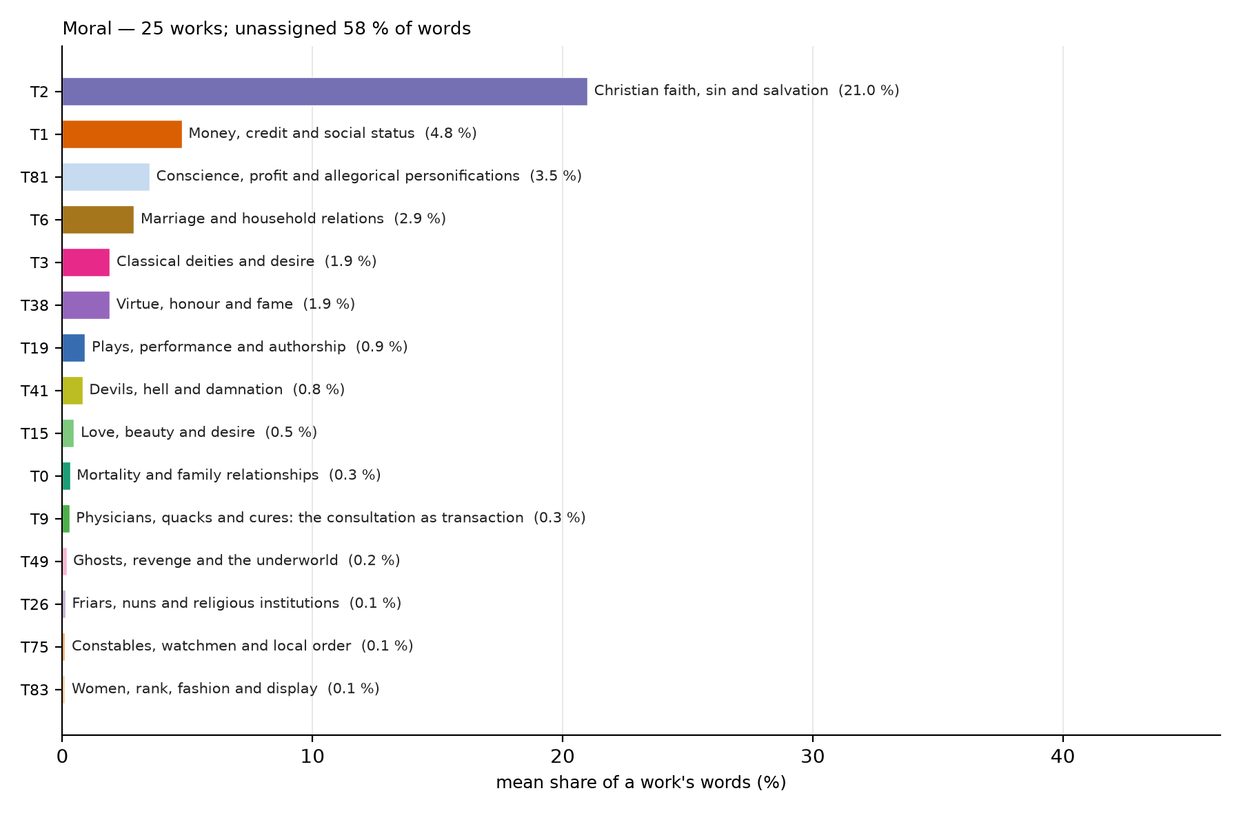
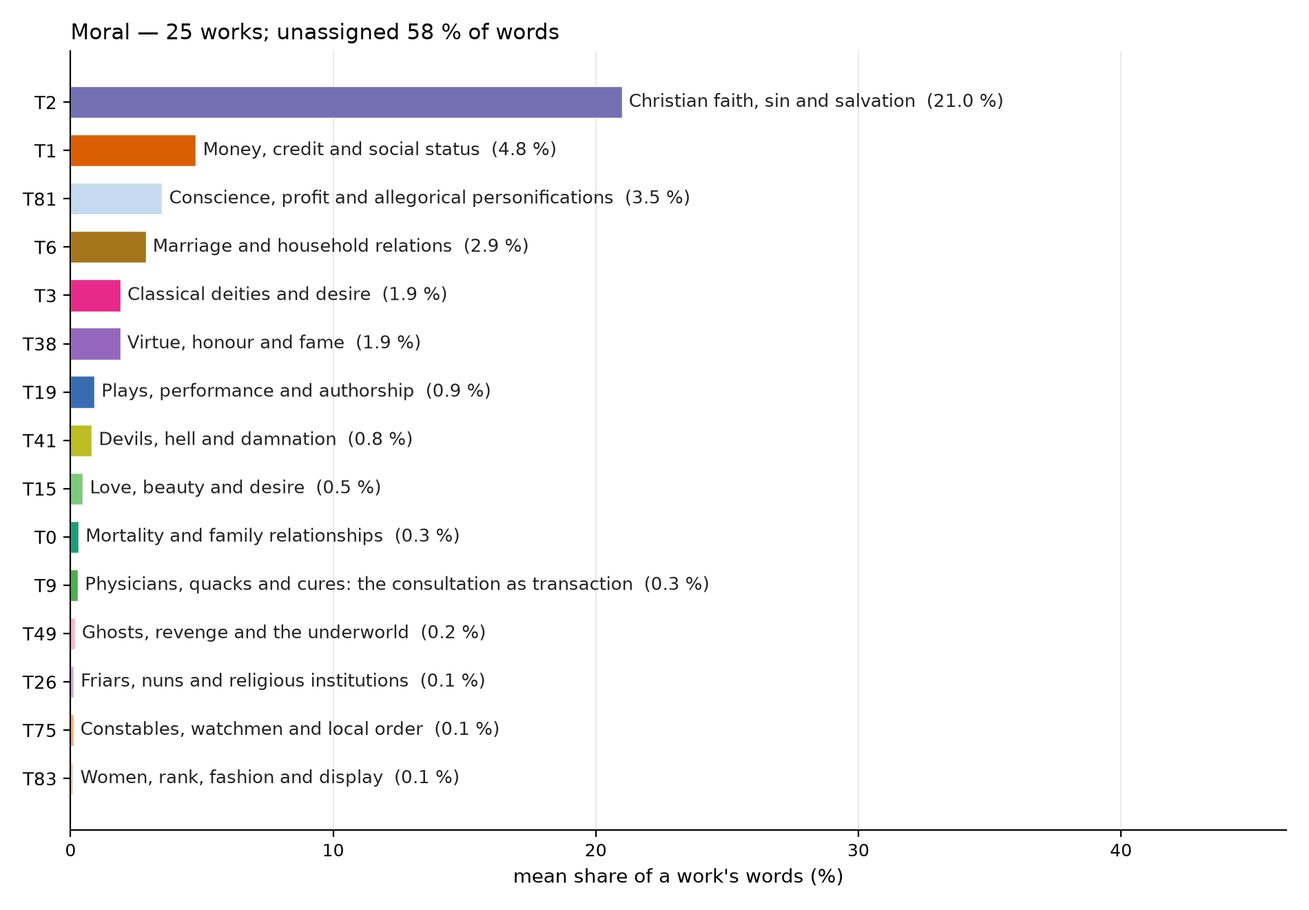
Larger figure type; wide genre page

diff --git a/docs/genre.html b/docs/genre.html
@@ -1,1 +1,1 @@
-<!doctype html><html lang="en"><head><meta charset="utf-8"><meta name="viewport" content="width=device-width, initial-scale=1"><title>Genre · Renaissance Drama — Topics</title><link rel="stylesheet" href="site.css"><script defer src="site.js"></script></head><body><div class="masthead"><div class="in"><a class="brand" href="index.html">Renaissance Drama — Topics <span>· seed 42</span></a><nav><a href="index.html">Home</a><a href="map.html">Map</a><a href="topics.html">Topics</a><a href="plays.html">Plays</a><a href="genre.html" class=active>Genre</a><a href="methods.html">Methods</a><a href="https://github.com/a21694114-art/renaissance-drama-corpus-v3">GitHub</a></nav></div></div><div class="wrap"><nav class="crumbs"><a href="index.html">Home</a> › Genre</nav><h1>Topics across genres</h1><p class="lede">Shares are of a work's words: chunks are aggregated to editions, editions of one work are averaged, and works enter their genre with equal weight. Every chunk stays in the denominator, so the selected topics never describe a whole genre — the rest of each genre's words is shown alongside.</p><h2>Coverage</h2><table><thead><tr><th>genre</th><th class="num">works</th><th class="num">selected topics</th><th class="num">single work / story</th><th class="num">pending</th><th class="num">unassigned</th></tr></thead><tbody><tr><td>comedy</td><td class="num">143</td><td class="num">19 %</td><td class="num">17 %</td><td class="num">9 %</td><td class="num">56 %</td></tr><tr><td>tragedy</td><td class="num">106</td><td class="num">29 %</td><td class="num">19 %</td><td class="num">5 %</td><td class="num">47 %</td></tr><tr><td>history</td><td class="num">29</td><td class="num">29 %</td><td class="num">6 %</td><td class="num">3 %</td><td class="num">61 %</td></tr><tr><td>tragicomedy</td><td class="num">24</td><td class="num">15 %</td><td class="num">17 %</td><td class="num">12 %</td><td class="num">56 %</td></tr><tr><td>moral</td><td class="num">25</td><td class="num">39 %</td><td class="num">1 %</td><td class="num">2 %</td><td class="num">58 %</td></tr><tr><td>romance</td><td class="num">17</td><td class="num">12 %</td><td class="num">16 %</td><td class="num">6 %</td><td class="num">66 %</td></tr><tr><td>pastoral</td><td class="num">12</td><td class="num">41 %</td><td class="num">4 %</td><td class="num">2 %</td><td class="num">52 %</td></tr><tr><td>masque</td><td class="num">34</td><td class="num">44 %</td><td class="num">0 %</td><td class="num">0 %</td><td class="num">56 %</td></tr><tr><td>other/multi</td><td class="num">126</td><td class="num">29 %</td><td class="num">5 %</td><td class="num">2 %</td><td class="num">65 %</td></tr></tbody></table><h2>Top 20 selected topics per genre, rescaled to the words those topics cover (coverage above each bar)</h2><img class="heat" src="genre_stacked_top20_works_renorm.png" alt="Top 20 selected topics per genre, rescaled to the words those topics cover (coverage above each bar)"><h2>The same topics per genre as bars; values are the mean share of a work&#x27;s words</h2><img class="heat" src="genre_panels_top20_works.png" alt="The same topics per genre as bars; values are the mean share of a work&#x27;s words"><p class="lede" style="font-size:.85rem">Per-genre bar charts: <a href="genre_comedy_top20_works.png">comedy</a> · <a href="genre_history_top20_works.png">history</a> · <a href="genre_masque_top20_works.png">masque</a> · <a href="genre_moral_top20_works.png">moral</a> · <a href="genre_pastoral_top20_works.png">pastoral</a> · <a href="genre_romance_top20_works.png">romance</a> · <a href="genre_tragedy_top20_works.png">tragedy</a> · <a href="genre_tragicomedy_top20_works.png">tragicomedy</a></p><h2>Mean share of a work's words (square-root colour scale)</h2><img class="heat" src="heatmap_selected_topics.png" alt="heatmap"><h2>Share of works in which the topic occurs</h2><img class="heat" src="heatmap_prevalence.png" alt="prevalence heatmap"><h2>Kruskal–Wallis across genres (Benjamini–Hochberg q)</h2><p class="lede" style="font-size:.9rem">"one-work" = a single work holds ≥50 % of the highest genre's total share, so that mean is one play, not the genre. Descriptive only.</p><table class="sortable"><thead><tr><th>topic</th><th>highest genre (mean; works with topic)</th><th>one-work</th><th>second</th><th class="num">ratio</th><th class="num">p</th><th class="num">q</th></tr></thead><tbody><tr><td><a href="topic_00.html">T0 Mortality and family relationships</a></td><td>tragedy (4.16 %; 53/106)</td><td></td><td>history (3.89 %)</td><td class="num">1.07</td><td class="num"><1e-5</td><td class="num"><1e-5</td></tr><tr><td><a href="topic_01.html">T1 Money, credit and social status</a></td><td>moral (4.78 %; 12/25)</td><td></td><td>comedy (2.66 %)</td><td class="num">1.79</td><td class="num"><1e-5</td><td class="num"><1e-5</td></tr><tr><td><a href="topic_02.html">T2 Christian faith, sin and salvation</a></td><td>moral (21.00 %; 16/25)</td><td></td><td>masque (0.36 %)</td><td class="num">57.73</td><td class="num"><1e-5</td><td class="num"><1e-5</td></tr><tr><td><a href="topic_03.html">T3 Classical deities and desire</a></td><td>masque (34.47 %; 21/34)</td><td></td><td>pastoral (9.74 %)</td><td class="num">3.54</td><td class="num"><1e-5</td><td class="num"><1e-5</td></tr><tr><td><a href="topic_05.html">T5 English dynastic conflict (York/Lancaster)</a></td><td>history (6.69 %; 13/29)</td><td></td><td>tragicomedy (0.23 %)</td><td class="num">29.35</td><td class="num"><1e-5</td><td class="num"><1e-5</td></tr><tr><td><a href="topic_06.html">T6 Marriage and household relations</a></td><td>moral (2.86 %; 6/25)</td><td>YES</td><td>comedy (2.48 %)</td><td class="num">1.15</td><td class="num"><1e-5</td><td class="num"><1e-5</td></tr><tr><td><a href="topic_14.html">T14 Shepherds, nymphs and courtship</a></td><td>pastoral (21.03 %; 6/12)</td><td></td><td>comedy (0.02 %)</td><td class="num">958.46</td><td class="num"><1e-5</td><td class="num"><1e-5</td></tr><tr><td><a href="topic_16.html">T16 Royal claims and Anglo-French conflict</a></td><td>history (10.88 %; 11/29)</td><td></td><td>tragedy (0.26 %)</td><td class="num">41.53</td><td class="num"><1e-5</td><td class="num"><1e-5</td></tr><tr><td><a href="topic_21.html">T21 Royal power and political judgment</a></td><td>tragedy (1.83 %; 20/106)</td><td></td><td>tragicomedy (0.40 %)</td><td class="num">4.55</td><td class="num"><1e-5</td><td class="num"><1e-5</td></tr><tr><td><a href="topic_30.html">T30 Henry IV and the Percy rebellion</a></td><td>history (3.45 %; 7/29)</td><td></td><td>romance (0.15 %)</td><td class="num">23.5</td><td class="num"><1e-5</td><td class="num"><1e-5</td></tr><tr><td><a href="topic_49.html">T49 Ghosts, revenge and the underworld</a></td><td>tragedy (1.29 %; 19/106)</td><td></td><td>pastoral (0.33 %)</td><td class="num">3.93</td><td class="num"><1e-5</td><td class="num"><1e-5</td></tr><tr><td><a href="topic_19.html">T19 Plays, performance and authorship</a></td><td>comedy (0.97 %; 36/143)</td><td></td><td>tragicomedy (0.96 %)</td><td class="num">1.01</td><td class="num"><1e-5</td><td class="num">2e-05</td></tr><tr><td><a href="topic_32.html">T32 Kinship, inheritance and property</a></td><td>comedy (1.35 %; 25/143)</td><td></td><td>tragedy (0.14 %)</td><td class="num">9.38</td><td class="num"><1e-5</td><td class="num">2e-05</td></tr><tr><td><a href="topic_08.html">T8 Roman politics and civil conflict (Caesar/Br</a></td><td>tragedy (3.84 %; 18/106)</td><td></td><td>history (0.74 %)</td><td class="num">5.22</td><td class="num">0.0001</td><td class="num">0.00023</td></tr><tr><td><a href="topic_38.html">T38 Virtue, honour and fame</a></td><td>moral (1.89 %; 5/25)</td><td></td><td>masque (1.71 %)</td><td class="num">1.11</td><td class="num">0.00021</td><td class="num">0.00044</td></tr><tr><td><a href="topic_15.html">T15 Love, beauty and desire</a></td><td>pastoral (3.51 %; 6/12)</td><td></td><td>tragicomedy (1.32 %)</td><td class="num">2.66</td><td class="num">0.00032</td><td class="num">0.00062</td></tr><tr><td><a href="topic_23.html">T23 Hercules narratives</a></td><td>masque (1.26 %; 1/34)</td><td>YES</td><td>tragedy (0.95 %)</td><td class="num">1.33</td><td class="num">0.00177</td><td class="num">0.00322</td></tr><tr><td><a href="topic_09.html">T9 Physicians, quacks and cures: the consultati</a></td><td>pastoral (4.66 %; 4/12)</td><td>YES</td><td>comedy (1.46 %)</td><td class="num">3.18</td><td class="num">0.00192</td><td class="num">0.00331</td></tr><tr><td><a href="topic_81.html">T81 Conscience, profit and allegorical personifi</a></td><td>moral (3.49 %; 2/25)</td><td>YES</td><td>masque (0.37 %)</td><td class="num">9.47</td><td class="num">0.00275</td><td class="num">0.00448</td></tr><tr><td><a href="topic_04.html">T4 Courts, rank and authority</a></td><td>tragicomedy (3.53 %; 7/24)</td><td>YES</td><td>comedy (1.97 %)</td><td class="num">1.79</td><td class="num">0.00787</td><td class="num">0.0122</td></tr><tr><td><a href="topic_18.html">T18 Captains and military roles</a></td><td>comedy (1.52 %; 26/143)</td><td></td><td>history (0.61 %)</td><td class="num">2.49</td><td class="num">0.01485</td><td class="num">0.02193</td></tr><tr><td><a href="topic_83.html">T83 Women, rank, fashion and display</a></td><td>romance (0.46 %; 2/17)</td><td>YES</td><td>comedy (0.41 %)</td><td class="num">1.12</td><td class="num">0.02278</td><td class="num">0.0321</td></tr><tr><td><a href="topic_20.html">T20 Cleopatra and Antony narratives</a></td><td>tragedy (2.65 %; 7/106)</td><td></td><td>romance (0.11 %)</td><td class="num">24.72</td><td class="num">0.04706</td><td class="num">0.06343</td></tr><tr><td><a href="topic_25.html">T25 Power, fortune and mortality</a></td><td>tragedy (1.09 %; 8/106)</td><td></td><td>history (0.10 %)</td><td class="num">10.46</td><td class="num">0.05431</td><td class="num">0.07015</td></tr><tr><td><a href="topic_55.html">T55 Orestes and familial revenge</a></td><td>tragedy (1.39 %; 5/106)</td><td></td><td>tragicomedy (0.08 %)</td><td class="num">17.78</td><td class="num">0.09404</td><td class="num">0.11213</td></tr><tr><td><a href="topic_92.html">T92 Rings and jewels as tokens or evidence</a></td><td>tragicomedy (0.99 %; 3/24)</td><td>YES</td><td>comedy (0.25 %)</td><td class="num">3.88</td><td class="num">0.09208</td><td class="num">0.11213</td></tr><tr><td><a href="topic_75.html">T75 Constables, watchmen and local order</a></td><td>romance (0.69 %; 1/17)</td><td>YES</td><td>history (0.40 %)</td><td class="num">1.71</td><td class="num">0.09799</td><td class="num">0.11251</td></tr><tr><td><a href="topic_41.html">T41 Devils, hell and damnation</a></td><td>comedy (0.83 %; 17/143)</td><td></td><td>moral (0.81 %)</td><td class="num">1.03</td><td class="num">0.10421</td><td class="num">0.11538</td></tr><tr><td><a href="topic_29.html">T29 Theban narratives, kinship and burial</a></td><td>tragedy (1.77 %; 4/106)</td><td></td><td>romance (0.14 %)</td><td class="num">12.8</td><td class="num">0.12032</td><td class="num">0.12862</td></tr><tr><td><a href="topic_11.html">T11 Trojan-war narratives</a></td><td>tragedy (2.23 %; 9/106)</td><td></td><td>pastoral (0.41 %)</td><td class="num">5.44</td><td class="num">0.18628</td><td class="num">0.19248</td></tr><tr><td><a href="topic_26.html">T26 Friars, nuns and religious institutions</a></td><td>romance (1.09 %; 1/17)</td><td>YES</td><td>tragedy (1.08 %)</td><td class="num">1.02</td><td class="num">0.62271</td><td class="num">0.62271</td></tr></tbody></table><div class="footer">Grace · generated by <code>13_site.py</code> from run <code>runs_Qwen_Qwen3-Embedding-0.6B</code>, seed 42. Texts: EEBO-TCP / EarlyPrint (CC BY-NC 3.0). Metadata: DEEP, Wiggins &amp; Richardson.</div></div></body></html>
+<!doctype html><html lang="en"><head><meta charset="utf-8"><meta name="viewport" content="width=device-width, initial-scale=1"><title>Genre · Renaissance Drama — Topics</title><link rel="stylesheet" href="site.css"><script defer src="site.js"></script></head><body><div class="masthead"><div class="in"><a class="brand" href="index.html">Renaissance Drama — Topics <span>· seed 42</span></a><nav><a href="index.html">Home</a><a href="map.html">Map</a><a href="topics.html">Topics</a><a href="plays.html">Plays</a><a href="genre.html" class=active>Genre</a><a href="methods.html">Methods</a><a href="https://github.com/a21694114-art/renaissance-drama-corpus-v3">GitHub</a></nav></div></div><div class="wrap wide"><nav class="crumbs"><a href="index.html">Home</a> › Genre</nav><h1>Topics across genres</h1><p class="lede">Shares are of a work's words: chunks are aggregated to editions, editions of one work are averaged, and works enter their genre with equal weight. Every chunk stays in the denominator, so the selected topics never describe a whole genre — the rest of each genre's words is shown alongside.</p><h2>Coverage</h2><table><thead><tr><th>genre</th><th class="num">works</th><th class="num">selected topics</th><th class="num">single work / story</th><th class="num">pending</th><th class="num">unassigned</th></tr></thead><tbody><tr><td>comedy</td><td class="num">143</td><td class="num">19 %</td><td class="num">17 %</td><td class="num">9 %</td><td class="num">56 %</td></tr><tr><td>tragedy</td><td class="num">106</td><td class="num">29 %</td><td class="num">19 %</td><td class="num">5 %</td><td class="num">47 %</td></tr><tr><td>history</td><td class="num">29</td><td class="num">29 %</td><td class="num">6 %</td><td class="num">3 %</td><td class="num">61 %</td></tr><tr><td>tragicomedy</td><td class="num">24</td><td class="num">15 %</td><td class="num">17 %</td><td class="num">12 %</td><td class="num">56 %</td></tr><tr><td>moral</td><td class="num">25</td><td class="num">39 %</td><td class="num">1 %</td><td class="num">2 %</td><td class="num">58 %</td></tr><tr><td>romance</td><td class="num">17</td><td class="num">12 %</td><td class="num">16 %</td><td class="num">6 %</td><td class="num">66 %</td></tr><tr><td>pastoral</td><td class="num">12</td><td class="num">41 %</td><td class="num">4 %</td><td class="num">2 %</td><td class="num">52 %</td></tr><tr><td>masque</td><td class="num">34</td><td class="num">44 %</td><td class="num">0 %</td><td class="num">0 %</td><td class="num">56 %</td></tr><tr><td>other/multi</td><td class="num">126</td><td class="num">29 %</td><td class="num">5 %</td><td class="num">2 %</td><td class="num">65 %</td></tr></tbody></table><h2>Top 20 selected topics per genre, rescaled to the words those topics cover (coverage above each bar)</h2><a href="genre_stacked_top20_works_renorm.png"><img class="heat" src="genre_stacked_top20_works_renorm.png" alt="Top 20 selected topics per genre, rescaled to the words those topics cover (coverage above each bar)"></a><h2>The same topics per genre as bars; values are the mean share of a work&#x27;s words</h2><a href="genre_panels_top20_works.png"><img class="heat" src="genre_panels_top20_works.png" alt="The same topics per genre as bars; values are the mean share of a work&#x27;s words"></a><p class="lede" style="font-size:.85rem">Per-genre bar charts: <a href="genre_comedy_top20_works.png">comedy</a> · <a href="genre_history_top20_works.png">history</a> · <a href="genre_masque_top20_works.png">masque</a> · <a href="genre_moral_top20_works.png">moral</a> · <a href="genre_pastoral_top20_works.png">pastoral</a> · <a href="genre_romance_top20_works.png">romance</a> · <a href="genre_tragedy_top20_works.png">tragedy</a> · <a href="genre_tragicomedy_top20_works.png">tragicomedy</a></p><h2>Mean share of a work's words (square-root colour scale)</h2><a href="heatmap_selected_topics.png"><img class="heat" src="heatmap_selected_topics.png" alt="heatmap"></a><h2>Share of works in which the topic occurs</h2><a href="heatmap_prevalence.png"><img class="heat" src="heatmap_prevalence.png" alt="prevalence heatmap"></a><p class="lede" style="font-size:.85rem">Click any figure to open it at full size.</p><h2>Kruskal–Wallis across genres (Benjamini–Hochberg q)</h2><p class="lede" style="font-size:.9rem">"one-work" = a single work holds ≥50 % of the highest genre's total share, so that mean is one play, not the genre. Descriptive only.</p><table class="sortable"><thead><tr><th>topic</th><th>highest genre (mean; works with topic)</th><th>one-work</th><th>second</th><th class="num">ratio</th><th class="num">p</th><th class="num">q</th></tr></thead><tbody><tr><td><a href="topic_00.html">T0 Mortality and family relationships</a></td><td>tragedy (4.16 %; 53/106)</td><td></td><td>history (3.89 %)</td><td class="num">1.07</td><td class="num"><1e-5</td><td class="num"><1e-5</td></tr><tr><td><a href="topic_01.html">T1 Money, credit and social status</a></td><td>moral (4.78 %; 12/25)</td><td></td><td>comedy (2.66 %)</td><td class="num">1.79</td><td class="num"><1e-5</td><td class="num"><1e-5</td></tr><tr><td><a href="topic_02.html">T2 Christian faith, sin and salvation</a></td><td>moral (21.00 %; 16/25)</td><td></td><td>masque (0.36 %)</td><td class="num">57.73</td><td class="num"><1e-5</td><td class="num"><1e-5</td></tr><tr><td><a href="topic_03.html">T3 Classical deities and desire</a></td><td>masque (34.47 %; 21/34)</td><td></td><td>pastoral (9.74 %)</td><td class="num">3.54</td><td class="num"><1e-5</td><td class="num"><1e-5</td></tr><tr><td><a href="topic_05.html">T5 English dynastic conflict (York/Lancaster)</a></td><td>history (6.69 %; 13/29)</td><td></td><td>tragicomedy (0.23 %)</td><td class="num">29.35</td><td class="num"><1e-5</td><td class="num"><1e-5</td></tr><tr><td><a href="topic_06.html">T6 Marriage and household relations</a></td><td>moral (2.86 %; 6/25)</td><td>YES</td><td>comedy (2.48 %)</td><td class="num">1.15</td><td class="num"><1e-5</td><td class="num"><1e-5</td></tr><tr><td><a href="topic_14.html">T14 Shepherds, nymphs and courtship</a></td><td>pastoral (21.03 %; 6/12)</td><td></td><td>comedy (0.02 %)</td><td class="num">958.46</td><td class="num"><1e-5</td><td class="num"><1e-5</td></tr><tr><td><a href="topic_16.html">T16 Royal claims and Anglo-French conflict</a></td><td>history (10.88 %; 11/29)</td><td></td><td>tragedy (0.26 %)</td><td class="num">41.53</td><td class="num"><1e-5</td><td class="num"><1e-5</td></tr><tr><td><a href="topic_21.html">T21 Royal power and political judgment</a></td><td>tragedy (1.83 %; 20/106)</td><td></td><td>tragicomedy (0.40 %)</td><td class="num">4.55</td><td class="num"><1e-5</td><td class="num"><1e-5</td></tr><tr><td><a href="topic_30.html">T30 Henry IV and the Percy rebellion</a></td><td>history (3.45 %; 7/29)</td><td></td><td>romance (0.15 %)</td><td class="num">23.5</td><td class="num"><1e-5</td><td class="num"><1e-5</td></tr><tr><td><a href="topic_49.html">T49 Ghosts, revenge and the underworld</a></td><td>tragedy (1.29 %; 19/106)</td><td></td><td>pastoral (0.33 %)</td><td class="num">3.93</td><td class="num"><1e-5</td><td class="num"><1e-5</td></tr><tr><td><a href="topic_19.html">T19 Plays, performance and authorship</a></td><td>comedy (0.97 %; 36/143)</td><td></td><td>tragicomedy (0.96 %)</td><td class="num">1.01</td><td class="num"><1e-5</td><td class="num">2e-05</td></tr><tr><td><a href="topic_32.html">T32 Kinship, inheritance and property</a></td><td>comedy (1.35 %; 25/143)</td><td></td><td>tragedy (0.14 %)</td><td class="num">9.38</td><td class="num"><1e-5</td><td class="num">2e-05</td></tr><tr><td><a href="topic_08.html">T8 Roman politics and civil conflict (Caesar/Br</a></td><td>tragedy (3.84 %; 18/106)</td><td></td><td>history (0.74 %)</td><td class="num">5.22</td><td class="num">0.0001</td><td class="num">0.00023</td></tr><tr><td><a href="topic_38.html">T38 Virtue, honour and fame</a></td><td>moral (1.89 %; 5/25)</td><td></td><td>masque (1.71 %)</td><td class="num">1.11</td><td class="num">0.00021</td><td class="num">0.00044</td></tr><tr><td><a href="topic_15.html">T15 Love, beauty and desire</a></td><td>pastoral (3.51 %; 6/12)</td><td></td><td>tragicomedy (1.32 %)</td><td class="num">2.66</td><td class="num">0.00032</td><td class="num">0.00062</td></tr><tr><td><a href="topic_23.html">T23 Hercules narratives</a></td><td>masque (1.26 %; 1/34)</td><td>YES</td><td>tragedy (0.95 %)</td><td class="num">1.33</td><td class="num">0.00177</td><td class="num">0.00322</td></tr><tr><td><a href="topic_09.html">T9 Physicians, quacks and cures: the consultati</a></td><td>pastoral (4.66 %; 4/12)</td><td>YES</td><td>comedy (1.46 %)</td><td class="num">3.18</td><td class="num">0.00192</td><td class="num">0.00331</td></tr><tr><td><a href="topic_81.html">T81 Conscience, profit and allegorical personifi</a></td><td>moral (3.49 %; 2/25)</td><td>YES</td><td>masque (0.37 %)</td><td class="num">9.47</td><td class="num">0.00275</td><td class="num">0.00448</td></tr><tr><td><a href="topic_04.html">T4 Courts, rank and authority</a></td><td>tragicomedy (3.53 %; 7/24)</td><td>YES</td><td>comedy (1.97 %)</td><td class="num">1.79</td><td class="num">0.00787</td><td class="num">0.0122</td></tr><tr><td><a href="topic_18.html">T18 Captains and military roles</a></td><td>comedy (1.52 %; 26/143)</td><td></td><td>history (0.61 %)</td><td class="num">2.49</td><td class="num">0.01485</td><td class="num">0.02193</td></tr><tr><td><a href="topic_83.html">T83 Women, rank, fashion and display</a></td><td>romance (0.46 %; 2/17)</td><td>YES</td><td>comedy (0.41 %)</td><td class="num">1.12</td><td class="num">0.02278</td><td class="num">0.0321</td></tr><tr><td><a href="topic_20.html">T20 Cleopatra and Antony narratives</a></td><td>tragedy (2.65 %; 7/106)</td><td></td><td>romance (0.11 %)</td><td class="num">24.72</td><td class="num">0.04706</td><td class="num">0.06343</td></tr><tr><td><a href="topic_25.html">T25 Power, fortune and mortality</a></td><td>tragedy (1.09 %; 8/106)</td><td></td><td>history (0.10 %)</td><td class="num">10.46</td><td class="num">0.05431</td><td class="num">0.07015</td></tr><tr><td><a href="topic_55.html">T55 Orestes and familial revenge</a></td><td>tragedy (1.39 %; 5/106)</td><td></td><td>tragicomedy (0.08 %)</td><td class="num">17.78</td><td class="num">0.09404</td><td class="num">0.11213</td></tr><tr><td><a href="topic_92.html">T92 Rings and jewels as tokens or evidence</a></td><td>tragicomedy (0.99 %; 3/24)</td><td>YES</td><td>comedy (0.25 %)</td><td class="num">3.88</td><td class="num">0.09208</td><td class="num">0.11213</td></tr><tr><td><a href="topic_75.html">T75 Constables, watchmen and local order</a></td><td>romance (0.69 %; 1/17)</td><td>YES</td><td>history (0.40 %)</td><td class="num">1.71</td><td class="num">0.09799</td><td class="num">0.11251</td></tr><tr><td><a href="topic_41.html">T41 Devils, hell and damnation</a></td><td>comedy (0.83 %; 17/143)</td><td></td><td>moral (0.81 %)</td><td class="num">1.03</td><td class="num">0.10421</td><td class="num">0.11538</td></tr><tr><td><a href="topic_29.html">T29 Theban narratives, kinship and burial</a></td><td>tragedy (1.77 %; 4/106)</td><td></td><td>romance (0.14 %)</td><td class="num">12.8</td><td class="num">0.12032</td><td class="num">0.12862</td></tr><tr><td><a href="topic_11.html">T11 Trojan-war narratives</a></td><td>tragedy (2.23 %; 9/106)</td><td></td><td>pastoral (0.41 %)</td><td class="num">5.44</td><td class="num">0.18628</td><td class="num">0.19248</td></tr><tr><td><a href="topic_26.html">T26 Friars, nuns and religious institutions</a></td><td>romance (1.09 %; 1/17)</td><td>YES</td><td>tragedy (1.08 %)</td><td class="num">1.02</td><td class="num">0.62271</td><td class="num">0.62271</td></tr></tbody></table><div class="footer">Grace · generated by <code>13_site.py</code> from run <code>runs_Qwen_Qwen3-Embedding-0.6B</code>, seed 42. Texts: EEBO-TCP / EarlyPrint (CC BY-NC 3.0). Metadata: DEEP, Wiggins &amp; Richardson.</div></div></body></html>

diff --git a/docs/site.css b/docs/site.css
@@ -32,7 +32,7 @@ mark{background:#fff3a8;padding:0 2px;border-radius:2px}
 .footer{margin-top:3em;padding-top:1em;border-top:1px solid var(--rule);font-size:.8rem;color:var(--faint)}
 details summary{cursor:pointer;color:var(--accent)}
 .grid2{display:grid;grid-template-columns:1fr 1fr;gap:20px}@media(max-width:800px){.grid2{grid-template-columns:1fr}}
-img.heat{max-width:100%;border:1px solid var(--rule);border-radius:8px}
+img.heat{max-width:100%;border:1px solid var(--rule);border-radius:8px;cursor:zoom-in}
 #note{font-size:.8rem;color:var(--muted);margin:0 0 .4em}#filters{display:flex;flex-wrap:wrap;gap:6px 12px;align-items:center;margin:0 0 .6em;font-size:.8rem;color:var(--muted)}
 #filters select{max-width:220px;font-size:.8rem}#filters button{font-size:.8rem}#count{color:var(--accent-ink);font-weight:600}#map{height:calc(100vh - 190px);min-height:560px}
 input.filterbox{width:100%;max-width:520px;font:inherit;font-size:.95rem;padding:8px 12px;border:1px solid var(--rule);border-radius:8px;margin:.2em 0 1em;background:var(--card)}

diff --git a/ab_spelling/code/14_genre_figures.py b/ab_spelling/code/14_genre_figures.py
@@ -55,6 +55,7 @@ def main():
     ap.add_argument('--top', type=int, default=20)
     ap.add_argument('--genres', default='', help="comma list, 'all' (adds other/multi), or empty = main genres with >= --min-works works")
     ap.add_argument('--min-works', type=int, default=10)
+    ap.add_argument('--legend-cols', type=int, default=1, help='columns of the topic list beside the stacked bars (1 = larger type on the web, 2 = compact for print)')
     ap.add_argument('--renorm', action='store_true', help='works mode: rescale so the selected topics sum to 100 %% (like the old chunk figures); coverage is printed instead')
     ap.add_argument('--out', default='')
     a = ap.parse_args()
@@ -131,7 +132,7 @@ def main():
             elif use is not None: w.writerow([g, n_units[g], '', 'topics outside the selection', '', '', f'{100 * not_sel:.3f}', measure])
             if not a.renorm: w.writerow([g, n_units[g], '', 'unassigned', '', '', f'{100 * rest[g]["unassigned"]:.3f}', 'share of all words' if a.weight == 'works' else 'share of all chunks (not in the denominator)'])
 
-    plt.rcParams.update({'font.family': 'DejaVu Sans', 'axes.spines.top': False, 'axes.spines.right': False, 'axes.grid': True,
+    plt.rcParams.update({'font.family': 'DejaVu Sans', 'font.size': 11, 'axes.spines.top': False, 'axes.spines.right': False, 'axes.grid': True,
                          'grid.color': '#e4e4e4', 'grid.linewidth': 0.6, 'axes.axisbelow': True})
 
     # ---- (1) stacked bars ----
@@ -139,15 +140,15 @@ def main():
     for g in genres:
         for t in top[g]:
             if t not in used: used.append(t)
-    maxlab = max([len(label[t][:56]) for t in used] + [20]); fig_w = 0.85 * len(genres) + 1.5 + 2 * 0.075 * maxlab
-    fig = plt.figure(figsize=(fig_w, max(6.5, 0.24 * math.ceil(len(used) / 2) + 2.5)))
-    ax = fig.add_axes([0.06, 0.1, min(0.36, 0.075 * len(genres) + 0.06), 0.84])
+    LC = max(1, a.legend_cols); maxlab = max([len(label[t][:48]) for t in used] + [20]); fig_w = 0.9 * len(genres) + 1.6 + LC * 0.095 * maxlab
+    fig = plt.figure(figsize=(fig_w, max(7, 0.3 * math.ceil((len(used) + 3) / LC) + 2.2)))
+    axw = (0.9 * len(genres)) / fig_w; ax = fig.add_axes([0.07, 0.1, axw, 0.84])
     for i, g in enumerate(genres):
         base = 0.0
         for t in top[g]:
             v = 100 * share[g][t]
             ax.bar(i, v, 0.62, bottom=base, color=color[t], edgecolor='white', linewidth=0.8)
-            if v >= 2.2: ax.text(i, base + v / 2, f'T{t}', ha='center', va='center', fontsize=6.5, color='white', fontweight='bold')
+            if v >= 2.6: ax.text(i, base + v / 2, f'T{t}', ha='center', va='center', fontsize=8, color='white', fontweight='bold')
             base += v
         other_sel = 100 * sum(share[g][t] for t in selected if t not in top[g])
         ax.bar(i, other_sel, 0.62, bottom=base, color=GREY_OTHER_SEL, edgecolor='white', linewidth=0.8); base += other_sel
@@ -158,49 +159,49 @@ def main():
             un = 100 * rest[g]['unassigned']
             ax.bar(i, un, 0.62, bottom=base, color=GREY_UNASSIGNED, edgecolor='white', linewidth=0.8, hatch='////'); base += un
         ntxt = f'n={n_units[g]}' + (f'\ncov. {100 * rest[g]["coverage"]:.0f} %' if a.renorm else '')
-        ax.text(i, 101, ntxt, ha='center', va='bottom', fontsize=7, color='#555')
-    ax.set_xticks(range(len(genres))); ax.set_xticklabels([g.capitalize() for g in genres], fontsize=10)
-    ax.set_ylim(0, 112 if a.renorm else 106); ax.set_ylabel(measure); ax.grid(axis='x', visible=False)
+        ax.text(i, 101, ntxt, ha='center', va='bottom', fontsize=8.5, color='#555')
+    ax.set_xticks(range(len(genres))); ax.set_xticklabels([g.capitalize() for g in genres], fontsize=11)
+    ax.set_ylim(0, 112 if a.renorm else 106); ax.set_ylabel(measure, fontsize=11); ax.tick_params(axis='y', labelsize=10); ax.grid(axis='x', visible=False)
     # topic list (legend) on the right, two columns, in topic-id order
-    handles = [Patch(color=color[t], label=f'T{t}: {label[t][:56]}') for t in sorted(used)]
+    handles = [Patch(color=color[t], label=f'T{t}: {label[t][:48]}' + ('…' if len(label[t]) > 48 else '')) for t in sorted(used)]
     handles.append(Patch(color=GREY_OTHER_SEL, label='other selected topics'))
     if use is not None and not a.renorm: handles.append(Patch(color=GREY_NOT_SEL, label='topics outside the selection'))
     if a.weight == 'works' and not a.renorm: handles.append(Patch(facecolor=GREY_UNASSIGNED, hatch='////', label='unassigned words'))
-    fig.legend(handles=handles, loc='upper left', bbox_to_anchor=(min(0.36, 0.075 * len(genres) + 0.06) + 0.085, 0.96), ncol=2, fontsize=8, frameon=False,
-               handlelength=1.0, handleheight=1.0, columnspacing=1.2, labelspacing=0.35)
-    fig.text(0.06, 0.02, f'{a.weight}: {measure}; top {a.top} of {len(selected)} eligible topics ({a.use}); n = {unit}' + ('; cov. = share of the genre\'s words that the selected topics cover' if a.renorm else '') + f'; seed {a.seed}', fontsize=7.5, color='#666')
+    fig.legend(handles=handles, loc='upper left', bbox_to_anchor=(0.07 + axw + 0.05, 0.96), ncol=LC, fontsize=10.5, frameon=False,
+               handlelength=1.1, handleheight=1.1, columnspacing=1.2, labelspacing=0.42)
+    fig.text(0.06, 0.02, f'{a.weight}: {measure}; top {a.top} of {len(selected)} eligible topics ({a.use}); n = {unit}' + ('; cov. = share of the genre\'s words that the selected topics cover' if a.renorm else '') + f'; seed {a.seed}', fontsize=8.5, color='#666')
     fig.savefig(out / f'genre_stacked_{sfx}.png', dpi=200); plt.close(fig)
 
     # ---- (2) one horizontal bar chart per genre ----
     for g in genres:
         ts = list(reversed(top[g]))
         if not ts: continue
-        fig, ax = plt.subplots(figsize=(9, 0.3 * len(ts) + 1.4), dpi=200)
+        fig, ax = plt.subplots(figsize=(9.5, 0.34 * len(ts) + 1.5), dpi=200)
         vals = [100 * share[g][t] for t in ts]
         ax.barh(range(len(ts)), vals, color=[color[t] for t in ts], height=0.66, edgecolor='white', linewidth=0.5)
         xmax = max(vals) * 1.05
         for i, (t, v) in enumerate(zip(ts, vals)):
-            ax.text(v + xmax * 0.012, i, f'{label[t]}  ({v:.1f} %)', va='center', ha='left', fontsize=7.5, color='#222')
-        ax.set_yticks(range(len(ts))); ax.set_yticklabels([f'T{t}' for t in ts], fontsize=8)
-        ax.set_xlim(0, xmax * 2.1); ax.set_xlabel(measure, fontsize=9); ax.grid(axis='y', visible=False)
+            ax.text(v + xmax * 0.012, i, f'{label[t]}  ({v:.1f} %)', va='center', ha='left', fontsize=9.5, color='#222')
+        ax.set_yticks(range(len(ts))); ax.set_yticklabels([f'T{t}' for t in ts], fontsize=9.5)
+        ax.set_xlim(0, xmax * 2.1); ax.set_xlabel(measure, fontsize=10); ax.tick_params(axis='x', labelsize=9); ax.grid(axis='y', visible=False)
         note = f'{g.capitalize()} — {n_units[g]} {unit}; ' + (f'unassigned {100 * rest[g]["unassigned"]:.0f} % of words' if a.weight == 'works' else f'{100 * rest[g]["unassigned"]:.0f} % of chunks unassigned (excluded)')
-        ax.set_title(note, fontsize=9.5, loc='left')
+        ax.set_title(note, fontsize=11, loc='left')
         fig.tight_layout(); fig.savefig(out / f'genre_{g.replace("/", "_")}_{sfx}.png'); plt.close(fig)
 
     # ---- (3) small multiples of (2) ----
     ncol = 2 if len(genres) > 1 else 1; nrow = math.ceil(len(genres) / ncol)
-    fig, axes = plt.subplots(nrow, ncol, figsize=(7.2 * ncol, (0.27 * a.top + 1.2) * nrow), dpi=170, squeeze=False)
+    fig, axes = plt.subplots(nrow, ncol, figsize=(6.6 * ncol, (0.3 * a.top + 1.3) * nrow), dpi=200, squeeze=False)
     for k, g in enumerate(genres):
         ax = axes[k // ncol][k % ncol]; ts = list(reversed(top[g])); vals = [100 * share[g][t] for t in ts]
         ax.barh(range(len(ts)), vals, color=[color[t] for t in ts], height=0.66, edgecolor='white', linewidth=0.5)
         xm = (max(vals) if vals else 1) * 1.05
         for i, (t, v) in enumerate(zip(ts, vals)):
-            ax.text(v + xm * 0.012, i, f'{label[t][:48]}  ({v:.1f})', va='center', ha='left', fontsize=6.5, color='#222')
-        ax.set_yticks(range(len(ts))); ax.set_yticklabels([f'T{t}' for t in ts], fontsize=7)
-        ax.set_xlim(0, xm * 2.1); ax.grid(axis='y', visible=False); ax.tick_params(axis='x', labelsize=7)
-        ax.set_title(f'{g.capitalize()} (n={n_units[g]} {unit})', fontsize=9, loc='left')
+            ax.text(v + xm * 0.012, i, f'{label[t][:44]}  ({v:.1f})', va='center', ha='left', fontsize=8.5, color='#222')
+        ax.set_yticks(range(len(ts))); ax.set_yticklabels([f'T{t}' for t in ts], fontsize=8.5)
+        ax.set_xlim(0, xm * 2.25); ax.grid(axis='y', visible=False); ax.tick_params(axis='x', labelsize=8)
+        ax.set_title(f'{g.capitalize()} (n={n_units[g]} {unit})', fontsize=11, loc='left')
     for k in range(len(genres), nrow * ncol): axes[k // ncol][k % ncol].axis('off')
-    fig.supxlabel(measure, fontsize=9); fig.tight_layout(); fig.savefig(out / f'genre_panels_{sfx}.png'); plt.close(fig)
+    fig.supxlabel(measure, fontsize=10.5); fig.tight_layout(); fig.savefig(out / f'genre_panels_{sfx}.png'); plt.close(fig)
     print(f'genre figures ({a.weight}, top {a.top}, {len(selected)} eligible topics, genres {", ".join(genres)}) → {out}')
 
 

diff --git a/ab_spelling/code/13_site.py b/ab_spelling/code/13_site.py
@@ -210,7 +210,7 @@ mark{background:#fff3a8;padding:0 2px;border-radius:2px}
 .footer{margin-top:3em;padding-top:1em;border-top:1px solid var(--rule);font-size:.8rem;color:var(--faint)}
 details summary{cursor:pointer;color:var(--accent)}
 .grid2{display:grid;grid-template-columns:1fr 1fr;gap:20px}@media(max-width:800px){.grid2{grid-template-columns:1fr}}
-img.heat{max-width:100%;border:1px solid var(--rule);border-radius:8px}
+img.heat{max-width:100%;border:1px solid var(--rule);border-radius:8px;cursor:zoom-in}
 #note{font-size:.8rem;color:var(--muted);margin:0 0 .4em}#filters{display:flex;flex-wrap:wrap;gap:6px 12px;align-items:center;margin:0 0 .6em;font-size:.8rem;color:var(--muted)}
 #filters select{max-width:220px;font-size:.8rem}#filters button{font-size:.8rem}#count{color:var(--accent-ink);font-weight:600}#map{height:calc(100vh - 190px);min-height:560px}
 input.filterbox{width:100%;max-width:520px;font:inherit;font-size:.95rem;padding:8px 12px;border:1px solid var(--rule);border-radius:8px;margin:.2em 0 1em;background:var(--card)}
@@ -379,7 +379,7 @@ inp.addEventListener('input',run);});"""
         for f, cap in (('genre_stacked_top20_works_renorm.png', 'Top 20 selected topics per genre, rescaled to the words those topics cover (coverage above each bar)'),
                        ('genre_panels_top20_works.png', 'The same topics per genre as bars; values are the mean share of a work\'s words')):
             if (agg / f).exists():
-                shutil.copy(agg / f, out / f); gfig += f'<h2>{E(cap)}</h2><img class="heat" src="{f}" alt="{E(cap)}">'
+                shutil.copy(agg / f, out / f); gfig += f'<h2>{E(cap)}</h2><a href="{f}"><img class="heat" src="{f}" alt="{E(cap)}"></a>'
         per_genre = [p_ for p_ in sorted(agg.glob('genre_*_top20_works.png')) if not p_.name.startswith(('genre_stacked', 'genre_panels'))]
         if per_genre:
             for p_ in per_genre: shutil.copy(p_, out / p_.name)
@@ -391,11 +391,12 @@ inp.addEventListener('input',run);});"""
         kwt = '<table class="sortable"><thead><tr><th>topic</th><th>highest genre (mean; works with topic)</th><th>one-work</th><th>second</th><th class="num">ratio</th><th class="num">p</th><th class="num">q</th></tr></thead><tbody>' + ''.join(
             f'<tr><td><a href="{tpage(int(r["topic"]))}">T{r["topic"]} {E(r["label"][:44])}</a></td><td>{E(r["highest"])} ({100 * float(r["mean " + r["highest"]]):.2f} %; {r["highest_works_with_topic"]})</td><td>{r["single_work_driven"]}</td>'
             f'<td>{E(r["second"])} ({100 * float(r["mean " + r["second"]]):.2f} %)</td><td class="num">{r["ratio_high_second"]}</td><td class="num">{r["kruskal_p"]}</td><td class="num">{r.get("bh_q", "")}</td></tr>' for r in sorted(kw, key=qk)) + '</tbody></table>'
-        page = (head('Genre') + mast('', 'genre.html') + crumbs('<a href="index.html">Home</a>', 'Genre')
+        page = (head('Genre') + mast('', 'genre.html').replace('<div class="wrap">', '<div class="wrap wide">') + crumbs('<a href="index.html">Home</a>', 'Genre')
                 + '<h1>Topics across genres</h1><p class="lede">Shares are of a work\'s words: chunks are aggregated to editions, editions of one work are averaged, and works enter their genre with equal weight. Every chunk stays in the denominator, so the selected topics never describe a whole genre — the rest of each genre\'s words is shown alongside.</p>'
                 + '<h2>Coverage</h2>' + covt + gfig
-                + '<h2>Mean share of a work\'s words (square-root colour scale)</h2><img class="heat" src="heatmap_selected_topics.png" alt="heatmap">'
-                + '<h2>Share of works in which the topic occurs</h2><img class="heat" src="heatmap_prevalence.png" alt="prevalence heatmap">'
+                + '<h2>Mean share of a work\'s words (square-root colour scale)</h2><a href="heatmap_selected_topics.png"><img class="heat" src="heatmap_selected_topics.png" alt="heatmap"></a>'
+                + '<h2>Share of works in which the topic occurs</h2><a href="heatmap_prevalence.png"><img class="heat" src="heatmap_prevalence.png" alt="prevalence heatmap"></a>'
+                + '<p class="lede" style="font-size:.85rem">Click any figure to open it at full size.</p>'
                 + '<h2>Kruskal–Wallis across genres (Benjamini–Hochberg q)</h2><p class="lede" style="font-size:.9rem">"one-work" = a single work holds ≥50 % of the highest genre\'s total share, so that mean is one play, not the genre. Descriptive only.</p>' + kwt + foot())
         (out / 'genre.html').write_text(page, encoding='utf-8')
 

diff --git a/ab_spelling/code/09_aggregate.py b/ab_spelling/code/09_aggregate.py
@@ -193,22 +193,22 @@ def main():
         M = M[order]; P = P[order]; ylab = [f'T{selected[i]}  {name_of[selected[i]][:42]}' for i in order]
         def heat(mat, fname, title, cblabel, fmt, norm=None):
             fig_h = max(4, 0.32 * len(selected) + 1.5)
-            fig, ax = plt.subplots(figsize=(1.3 * len(tested) + 6, fig_h))
+            fig, ax = plt.subplots(figsize=(1.05 * len(tested) + 5.5, fig_h))
             im = ax.imshow(mat, cmap='Blues', aspect='auto', norm=norm) if norm is not None else ax.imshow(mat, cmap='Blues', aspect='auto', vmin=0, vmax=max(mat.max(), 0.01))
-            ax.set_xticks(range(len(tested))); ax.set_xticklabels([f'{g}\n(n={len(groups[g])})' for g in tested], fontsize=9)
-            ax.set_yticks(range(len(selected))); ax.set_yticklabels(ylab, fontsize=8)
+            ax.set_xticks(range(len(tested))); ax.set_xticklabels([f'{g}\n(n={len(groups[g])})' for g in tested], fontsize=11)
+            ax.set_yticks(range(len(selected))); ax.set_yticklabels(ylab, fontsize=10)
             thresh = norm.inverse(0.6) if norm is not None else 0.6 * mat.max()
             for i in range(mat.shape[0]):
                 for j in range(mat.shape[1]):
                     if mat[i, j] >= 0.05:
-                        ax.text(j, i, fmt(mat[i, j]), ha='center', va='center', fontsize=7, color='#1a1a1a' if mat[i, j] < thresh else 'white')
+                        ax.text(j, i, fmt(mat[i, j]), ha='center', va='center', fontsize=8.5, color='#1a1a1a' if mat[i, j] < thresh else 'white')
             for sp in ('top', 'right', 'left', 'bottom'): ax.spines[sp].set_visible(False)
             ax.tick_params(length=0)
-            cb = fig.colorbar(im, ax=ax, fraction=0.03, pad=0.02); cb.set_label(cblabel, fontsize=8); cb.outline.set_visible(False)
-            ax.set_title(title, fontsize=9, loc='left')
+            cb = fig.colorbar(im, ax=ax, fraction=0.03, pad=0.02); cb.set_label(cblabel, fontsize=9.5); cb.ax.tick_params(labelsize=8.5); cb.outline.set_visible(False)
+            ax.set_title(title, fontsize=11, loc='left')
             fig.tight_layout(); fig.savefig(out / fname, dpi=160); plt.close(fig)
         heat(M, 'heatmap_selected_topics.png',
-             f'Selected topics by genre — mean share of a work\'s words, % (seed {a.seed}; works equal-weighted; editions averaged; all chunks in the denominator; square-root colour scale)',
+             f'Selected topics by genre — mean share of a work\'s words, %\n(seed {a.seed}; works equal-weighted, editions averaged, all chunks in the denominator; square-root colour scale)',
              'mean share of a work\'s words (%)', lambda v: f'{v:.1f}', norm=PowerNorm(gamma=0.5, vmin=0, vmax=max(M.max(), 0.01)))
         heat(P, 'heatmap_prevalence.png',
              f'Selected topics by genre — share of works in which the topic occurs at all, % (seed {a.seed})',
